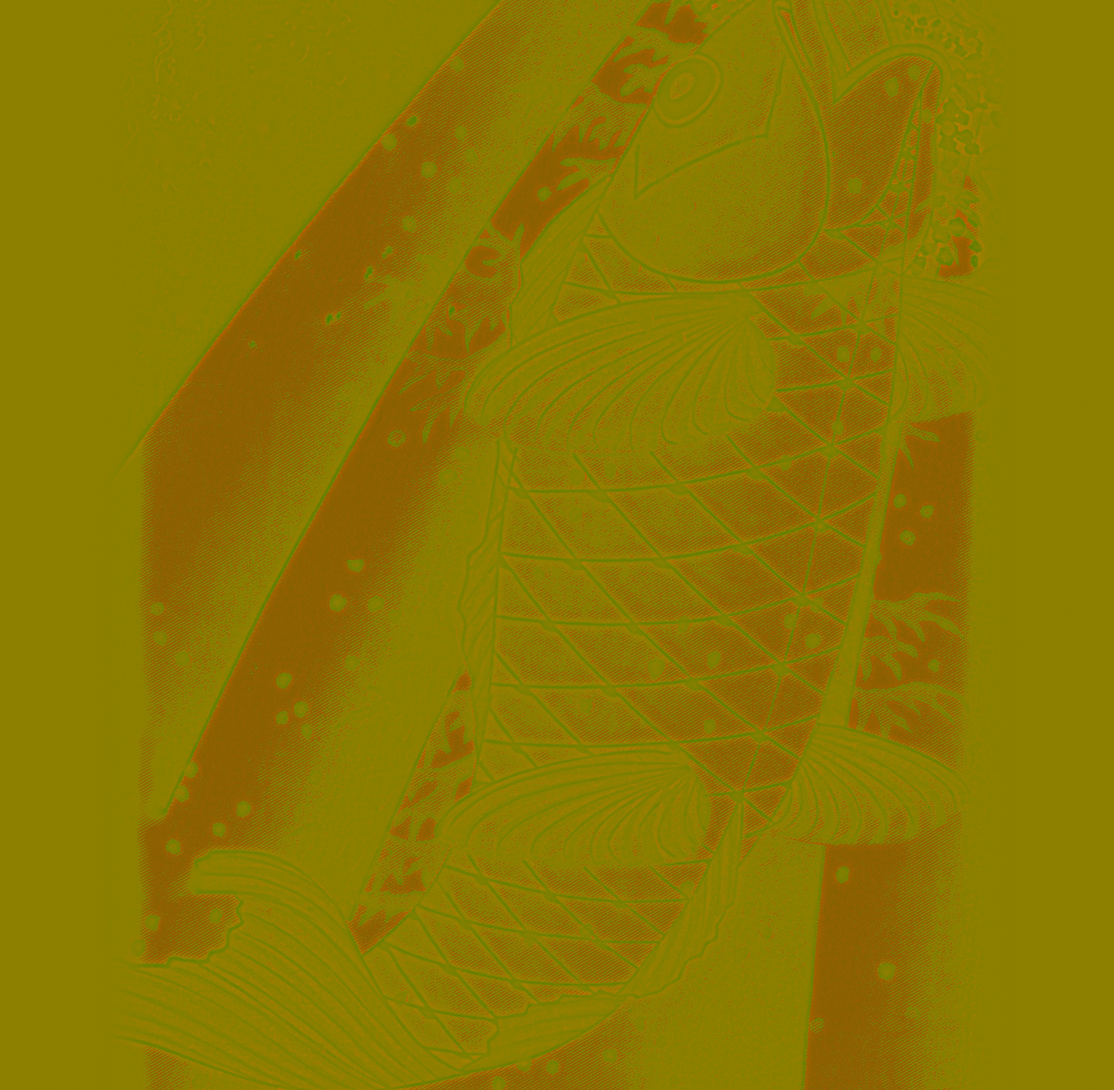
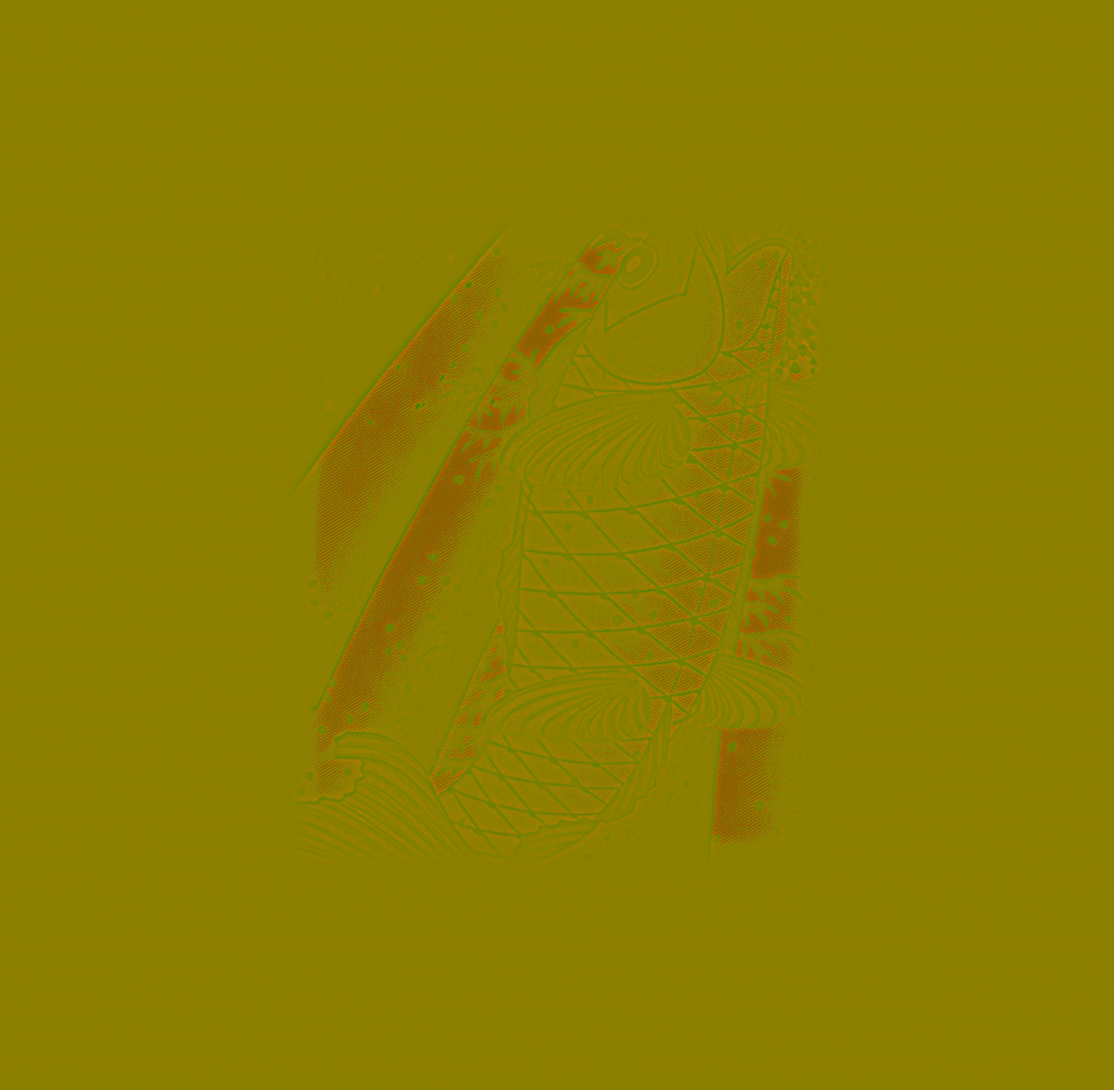
Koi sits on the face of the bag with deeper colour; remove the placeholder glove slot
Claude-Session: https://claude.ai/code/session_013efxsTe1RH5zuWsATCGHFH

Changed region(s): [[0.125, 0.0, 0.875, 1.0], [0.125, 0.9591, 0.1562, 1.0]]

diff --git a/prototype/index.html b/prototype/index.html
@@ -59,13 +59,13 @@
       <button class="bag-punch__arrow bag-punch__arrow--next" type="button" data-product-next aria-label="Next product"><svg viewBox="0 0 24 24" aria-hidden="true"><path d="M9.5 5.5 16 12l-6.5 6.5"/></svg></button>
     </div>
     <div class="bag-punch__label" aria-live="polite"><p class="bag-punch__name" data-product-name>Tiger</p><p class="bag-punch__sub" data-product-sub>Heavy bag</p>
-      <div class="bag-punch__dots"><button type="button" data-product-dot aria-label="Tiger" aria-current="true"></button><button type="button" data-product-dot aria-label="Painted Portrait" aria-current="false"></button><button type="button" data-product-dot aria-label="Glove" aria-current="false"></button></div>
+      <div class="bag-punch__dots"><button type="button" data-product-dot aria-label="Tiger" aria-current="true"></button><button type="button" data-product-dot aria-label="Painted Portrait" aria-current="false"></button></div>
       <div class="bag-punch__cta"><a class="btn btn--primary" href="product.html" data-product-order>Order this bag</a><a class="btn btn--secondary" href="configure.html?preset=tigerfull" data-product-build>Build yourself</a></div></div>
     <p class="bag-punch__hint" aria-hidden="true">Drag to spin · click to hit</p>
   </section>
   <script>window.SZ_TIGER_SRC = "tiger-hd.jpg";</script>   <!-- sharper enlarged tiger for this bag only; the configurator keeps tiger.png -->
   <script src="assets/bag3d/art.js?v=1790709014"></script>
-  <script type="module" src="bag-punch.js?v=1790709014"></script>
+  <script type="module" src="bag-punch.js?v=1790709988"></script>
 
   <!-- DEPTH CARDS: tilt + layered parallax + cursor spotlight (our own implementation; depth-card.js) -->
   <section class="depth-cards" aria-label="Featured">

diff --git a/prototype/bag-punch.js b/prototype/bag-punch.js
@@ -58,7 +58,6 @@ function start(root) {
     { id: "monogram", name: "Monogram", sub: "Tone on tone · black on black", kind: "bag", art: "monogram", trim: 0x1c1c1e, bump: 1.6, order: ["Order this bag", "product.html"], build: "configure.html?preset=monogram" },
     { id: "kintsugi", name: "Gold Vein", sub: "Kintsugi leather", kind: "bag", art: "kintsugi", trim: 0xb8953f, bump: 1.6, order: ["Order this bag", "product.html"], build: "configure.html?preset=kintsugi" },
     { id: "portrait", name: "Painted Portrait", sub: "Heavy bag · sample", kind: "bag", art: "portraitfull", trim: 0x1f4d2b, bump: 0.5, order: ["Order this bag", "product.html"], build: "configure.html?preset=portrait" },
-    { id: "glove", name: "Glove", sub: "Placeholder", kind: "glove", mid: 0.86, order: ["Ask about gloves", "contact.html"], build: "contact.html" }
   ];
   let cur = 0;
 

diff --git a/tools/lux-textures/make_textures.py b/tools/lux-textures/make_textures.py
@@ -87,8 +87,14 @@ def koi():
     # richer, deeper colour, like silk thread: more contrast and saturation, cool the shadows
     L = a.mean(-1, keepdims=True); a = L + (a - L) * 1.28; a = (a - 128) * 1.10 + 122
     navy = np.array([16, 40, 66], np.float32)
-    can, mask = place(a, 0.82, navy)
-    ft = feather_x(0.82); can = can * ft[..., None] + navy * (1 - ft[..., None])
+    # deeper colour: the print is pale, and on a lit bag it washes out further
+    a = 255.0 * np.power(np.clip(a, 0, 255) / 255.0, 1.28); L2 = a.mean(-1, keepdims=True); a = L2 + (a - L2) * 1.18
+    FRAC = 0.50                                        # the whole fish sits on the face you see (about half the wrap), with navy above and below
+    can, mask = place(a, FRAC, navy)
+    ft = feather_x(FRAC, 90)
+    ys = np.where(mask.any(1))[0]; y0, y1 = ys.min(), ys.max(); yy = np.arange(H)
+    fy = np.clip(np.minimum(yy - y0, y1 - yy) / 90.0, 0, 1); fy = (fy * fy * (3 - 2 * fy))[:, None]
+    ft = ft * fy; can = can * ft[..., None] + navy * (1 - ft[..., None])
     th = thread(60, 5.0, 0.10)[..., None]; can = can * th
     lum = can.mean(-1) / 255.0
     bump = 0.55 + 0.5 * (gaussian_filter(lum, 1.2) - gaussian_filter(lum, 6)) * 2.2
